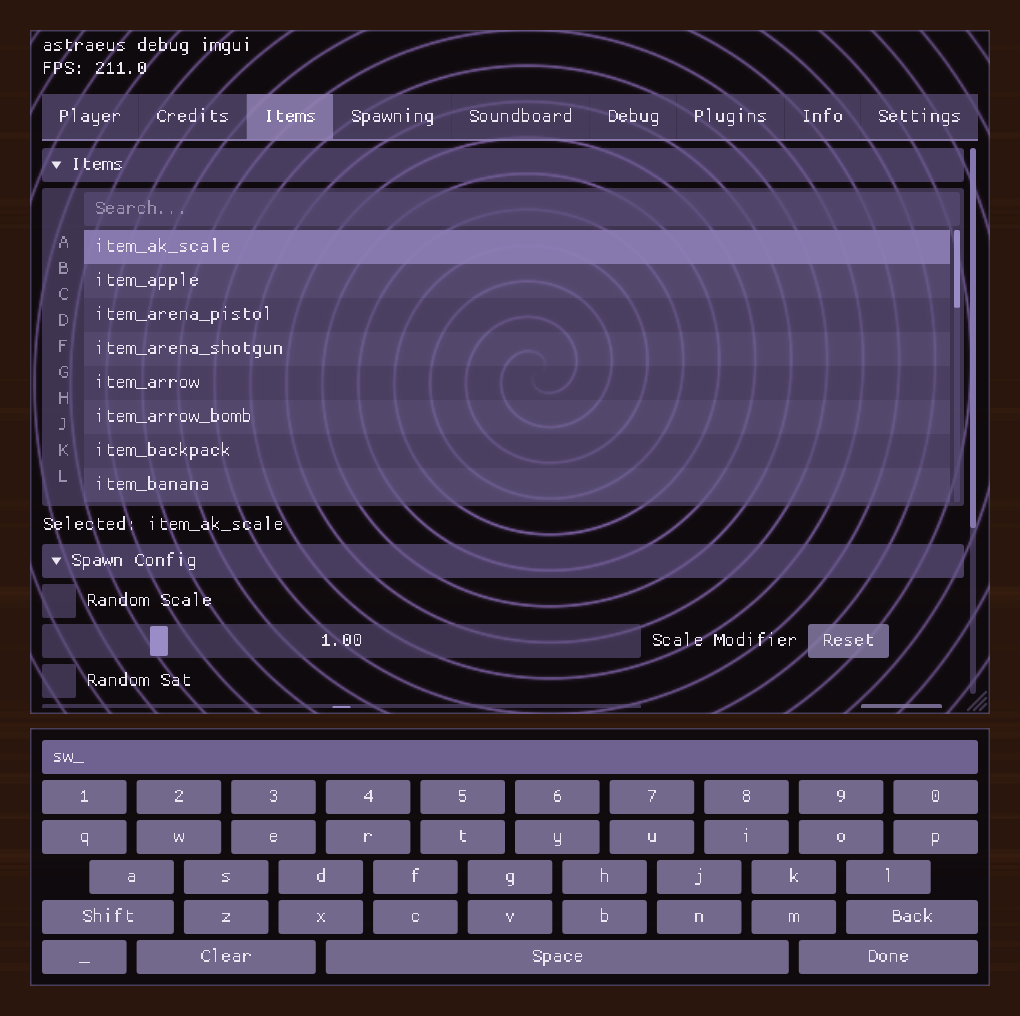
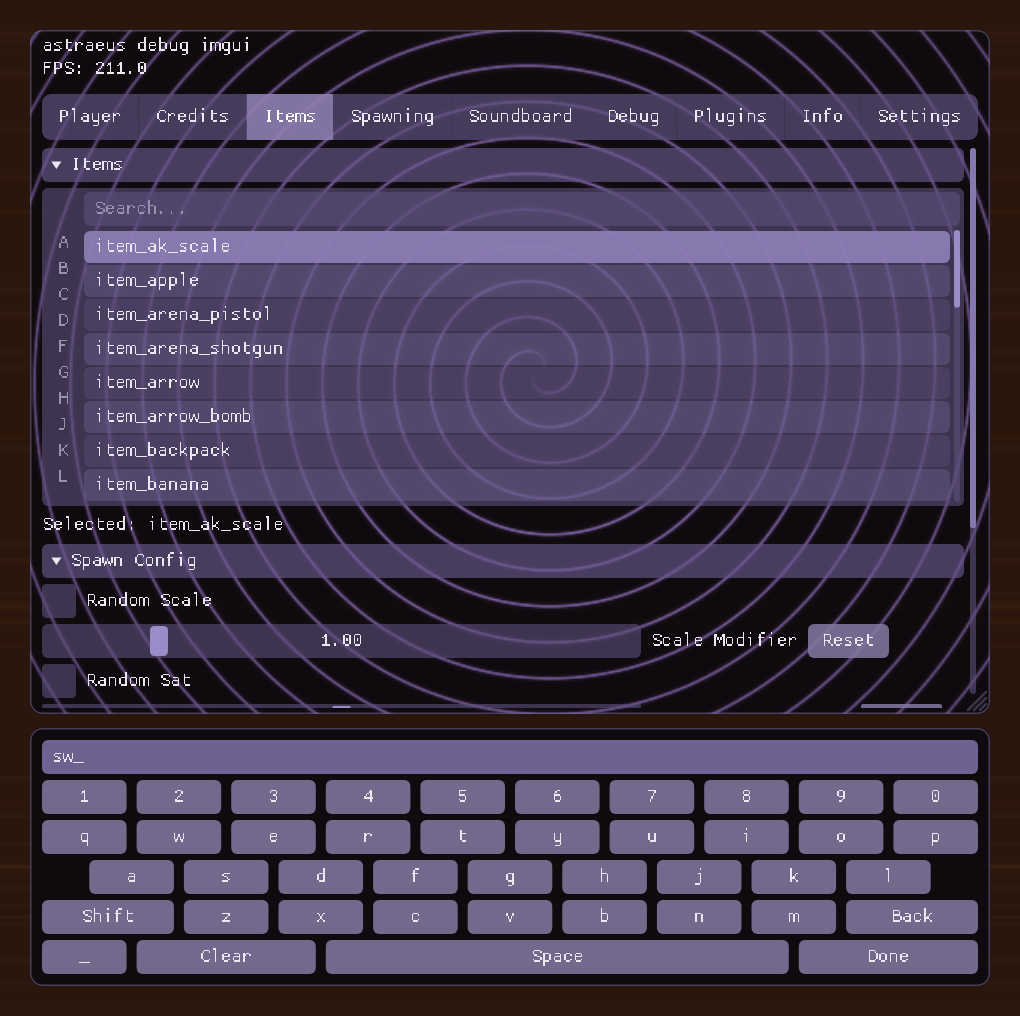
Round every corner; tabs as one strip with rounded outer ends
- ROUNDING 3 -> 6 (frames, headers, buttons, keys, checkboxes, slider
  grabs); window corners 12 with the smooth ring border.
- Tabs stay connected with no gaps; only the strip's outer ends are
  rounded (first tab's left corners, last tab's right corners), and the
  square underline is gone so it reads as a single bar.
- List box rows are rounded too.

Claude-Session: https://claude.ai/code/session_01CSWsGaxVVQEfJqQLYJMYRF

diff --git a/fridaimgui.ts b/fridaimgui.ts
@@ -21,7 +21,7 @@ const HUD_FONT       = 22;
 const UI_SCALE       = 0.00042;
 const WRIST_MENU     = true;
 const WRIST_OFFSET   = [0.12, 0.04, 0.02];
-const ROUNDING       = 3;
+const ROUNDING       = 6;
 const PAGE_HEIGHT    = 560;
 const ALWAYS_ON_TOP  = true;
 const STABILIZE      = true;
@@ -35,7 +35,7 @@ const TRIG_THRESH    = 0.55;
 const CLASSIC_TITLE  = true;
 const MENU_KEYBOARD  = true;
 const PIXEL_FONT     = true;
-const TAB_ROUNDING   = 0;
+const TAB_ROUNDING   = 9;
 const FONT_PREFERENCE = ["RobotoMono-Medium", "RobotoMono-Regular", "CourierPrime", "LiberationMono", "consola", "LiberationSans", "Roboto-Regular"];
 
 const EXTRA_FRAME_HOOKS = ["HurricaneVR.Framework.Core.Player.HVRPlayerController",
@@ -1784,7 +1784,7 @@ Il2Cpp.perform(() => {
 			const i = filtered[fi], iy = listY + vr * rowH;
 			const ib = behavior(id + "/" + i, lx, iy, lw, rowH);
 			const bg = i === r.v ? C.HeaderActive : ib.hov ? C.HeaderHovered : (fi % 2 ? (C.ListRowAlt ?? C.FrameBg) : (C.ListRow ?? C.FrameBg));
-			R(lx, iy, lw - (maxScroll > 0 ? 10 : 0), rowH, bg, L_FRAME);
+			RR(lx, iy + 1, lw - (maxScroll > 0 ? 10 : 0), rowH - 2, bg, L_FRAME);
 			T(lx + 10, iy, lw - 20, rowH, items[i], C.Text, ALIGN_LEFT, L_FRAME);
 			if (ib.clicked) { r.v = i; changed = true; }
 		}
@@ -1877,12 +1877,14 @@ Il2Cpp.perform(() => {
 			if (n > 0 && sum !== undefined) padX = Math.max(4, Math.min(padX, (fullW() - gap * (n - 1) - sum) / (2 * n)));
 			bar.textSum = (bar.textSum ?? 0) + txw;
 			const tw = style.tabsFill && n > 0 ? (fullW() - gap * (n - 1)) / n : txw + padX * 2;
-			const x = bar.nx;
+			const x = bar.nx, idx = bar.n;
 			bar.nx += tw + gap; bar.n++;
+			// one connected strip: only its outer ends are rounded (left end on the first tab, right end on the last)
+			const ends = (idx === 0 ? 1 | 8 : 0) | (n > 0 && idx === n - 1 ? 2 | 4 : 0);
 			const b = behavior(tid, x, bar.y, tw, bar.h);
 			if (b.clicked) tabNext.set(bar.id, tid);
 			sel = tabSel.get(bar.id) === tid;
-			R(x, bar.y, tw, bar.h, sel ? C.TabActive : b.hov ? C.TabHovered : C.Tab, L_FRAME, 0, TAB_ROUNDING, TOP_CORNERS);
+			R(x, bar.y, tw, bar.h, sel ? C.TabActive : b.hov ? C.TabHovered : C.Tab, L_FRAME, 0, ends ? TAB_ROUNDING : 0, ends);
 			T(x, bar.y, tw, bar.h, disp, sel ? C.TextOnActive : C.Text, ALIGN_CENTER, L_FRAME);
 		}
 		win.clipOn = clip;
@@ -1932,8 +1934,6 @@ Il2Cpp.perform(() => {
 				const dh = Math.max(bar.pageH, (bar.sideY! - bar.topY!));
 				R(dx, bar.topY!, 2, dh, C.TabActive, L_FRAME, 0, 1);
 				cur!.sideOff = 0;
-			} else {
-				R(style.pad, bar.y + bar.h - 1, fullW(), 2, C.TabActive, L_FRAME);
 			}
 		}
 		if (bar && bar.side && cur) cur.sideOff = 0;
